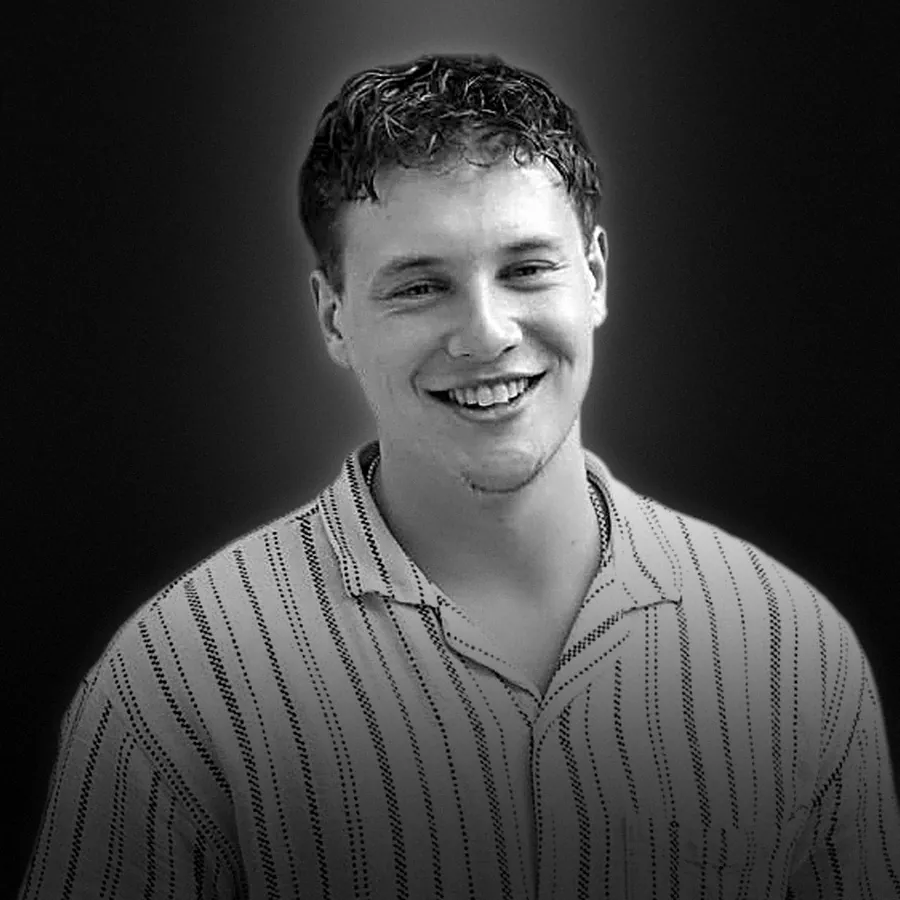
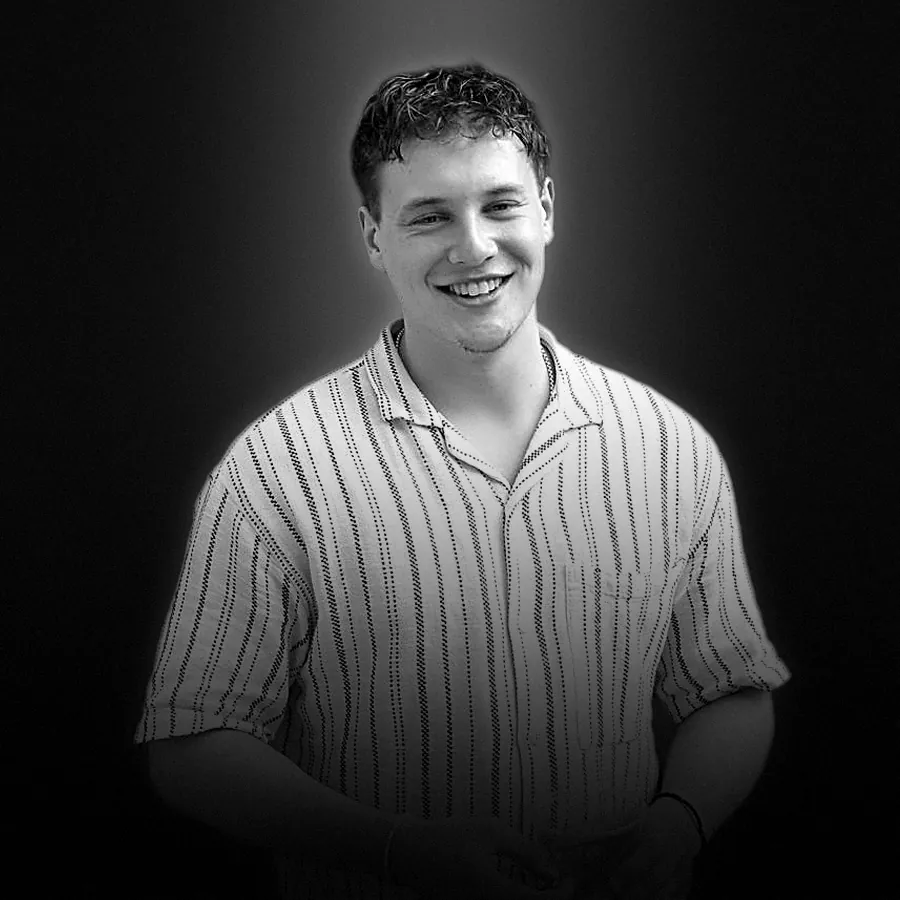
Pakete wieder als Karten, gleich hohe Produktkarten, groesseres Louis-Foto
- PackageCards: helle Karten im Stil der Produktkarten, Zahl der Ausdrucke
  als Blickfang, eine Reihe, bei wenig Platz seitlich wischbar
- Produktraster mit gleich hohen Zeilen, Preis unten an der Karte
- Ueber-uns-Banner aus dem groesseren Foto (Oberkoerper statt Nahaufnahme)

diff --git a/app/components/product/PackageCards.vue b/app/components/product/PackageCards.vue
@@ -1,0 +1,118 @@
+<script setup lang="ts">
+import type { RentalPackage } from '~~/shared/types'
+import { cheapestWithSoundboxCents, formatPrice } from '~~/shared/pricing'
+
+// Die Fotobox-Pakete als Karten in der Machart der Produktkarten: hell,
+// linksbuendig, ohne Symbole. Blickfang ist das, was die Pakete wirklich
+// unterscheidet, die Zahl der Ausdrucke. Zwei Arten:
+//   mit `to`     jede Karte ist ein Link (Pakete-Seite, Produktuebersicht)
+//   ohne `to`    jede Karte waehlt das Paket aus (Produktseite, "select")
+const { packages, selected = '', to } = defineProps<{
+  packages: RentalPackage[]
+  selected?: string
+  to?: (pkg: RentalPackage) => string
+}>()
+const emit = defineEmits<{ select: [slug: string] }>()
+// Als Text ('NuxtLink') findet <component :is> die Komponente nicht.
+const NuxtLink = resolveComponent('NuxtLink')
+</script>
+
+<template>
+  <ul class="pc">
+    <li v-for="p in packages" :key="p.slug">
+      <component
+        :is="to ? NuxtLink : 'button'"
+        :to="to ? to(p) : undefined"
+        :type="to ? undefined : 'button'"
+        :aria-pressed="to ? undefined : selected === p.slug"
+        class="pc__card" :class="{ 'is-sel': selected === p.slug }"
+        @click="to ? undefined : emit('select', p.slug)"
+      >
+        <span class="pc__top">
+          <span class="label pc__tier">{{ p.short }}</span>
+          <span v-if="p.highlight" class="label pc__tag">Beliebt</span>
+        </span>
+
+        <span class="pc__hero">
+          <template v-if="p.prints">
+            <span class="display pc__num">{{ p.prints }}</span>
+            <span class="pc__unit">Ausdrucke</span>
+          </template>
+          <template v-else>
+            <span class="display pc__num pc__num--word">Digital</span>
+            <span class="pc__unit">ohne Drucker</span>
+          </template>
+        </span>
+
+        <span class="pc__facts">
+          <span>Online-Galerie</span>
+          <span v-if="p.designIncluded">Fotodesign inklusive</span>
+          <span>Lieferung bis {{ p.freeDeliveryKm }} km</span>
+        </span>
+
+        <span class="pc__foot">
+          <span class="pc__price">{{ formatPrice(p.priceCents) }}</span>
+          <span v-if="cheapestWithSoundboxCents(p)" class="pc__alt">
+            mit Soundbox ab {{ formatPrice(cheapestWithSoundboxCents(p)!) }}
+          </span>
+          <span class="label pc__act" aria-hidden="true">
+            <template v-if="to">Wählen <UiIcon name="arrow" :size="12" /></template>
+            <template v-else>{{ selected === p.slug ? 'Gewählt' : 'Wählen' }}</template>
+          </span>
+        </span>
+      </component>
+    </li>
+  </ul>
+</template>
+
+<style scoped>
+/* Alle Pakete in einer Reihe. Reicht die Breite nicht (Handy, Spalte auf der
+   Produktseite), wird die Reihe seitlich wischbar statt umzubrechen: fuenf
+   Karten ergaeben sonst immer eine einzelne Karte in der letzten Zeile.
+   Das Polster gibt dem Anheben beim Hover Platz, overflow schneidet sonst ab. */
+.pc {
+  list-style: none; margin: calc(-1 * var(--s-3)); padding: var(--s-3);
+  display: grid; gap: var(--s-3);
+  grid-auto-flow: column; grid-auto-columns: minmax(10rem, 1fr);
+  overflow-x: auto; scroll-snap-type: x mandatory;
+  scroll-padding-inline: var(--s-3);
+  scrollbar-width: thin;
+}
+.pc li { display: flex; scroll-snap-align: start; }
+
+.pc__card {
+  flex: 1;
+  display: flex; flex-direction: column; gap: var(--s-4);
+  padding: var(--s-5) var(--s-4) var(--s-4);
+  text-align: left; color: var(--c-text);
+  background: var(--c-paper-pure);
+  border: var(--border-hair);
+  border-radius: var(--r-md);
+  transition: transform var(--d-base) var(--e-out), box-shadow var(--d-base) var(--e-out),
+              border-color var(--d-fast) var(--e-out);
+}
+.pc__card:hover { transform: translateY(-3px); box-shadow: var(--shadow-card); }
+.pc__card:focus-visible { outline: 2px solid var(--c-gold); outline-offset: 3px; }
+.pc__card.is-sel { border-color: var(--c-gold); box-shadow: inset 0 0 0 1px var(--c-gold); }
+
+.pc__top { display: flex; justify-content: space-between; align-items: baseline; gap: var(--s-2); }
+.pc__tier { color: var(--c-text); }
+.pc__tag { color: var(--c-gold); font-size: 0.625rem; }
+
+.pc__hero { display: grid; padding-bottom: var(--s-4); border-bottom: 1px solid var(--c-gold-hair); }
+.pc__num { font-size: clamp(2.6rem, 2rem + 1.6vw, 3.4rem); line-height: 1; font-variant-numeric: lining-nums; }
+.pc__num--word { font-size: clamp(2rem, 1.6rem + 1.2vw, 2.6rem); line-height: 1.3; }
+.pc__unit { font-size: var(--t-small); color: var(--c-text-muted); }
+
+.pc__facts { display: grid; gap: 0.3rem; font-size: var(--t-small); color: var(--c-text-muted); }
+
+/* Preis immer unten, auch wenn eine Karte weniger Zeilen hat. */
+.pc__foot { margin-top: auto; display: grid; gap: 0.15rem; padding-top: var(--s-2); }
+.pc__price { font-size: 1.25rem; font-weight: 600; font-variant-numeric: tabular-nums; }
+.pc__alt { font-size: 0.75rem; color: var(--c-text-muted); }
+.pc__act {
+  display: inline-flex; align-items: center; gap: 0.3rem;
+  margin-top: var(--s-3); color: var(--c-gold);
+}
+.pc__card.is-sel .pc__act { color: var(--c-text); }
+</style>

diff --git a/app/components/product/ProductCard.vue b/app/components/product/ProductCard.vue
@@ -33,7 +33,7 @@ function open() {
       <h3 class="card__name">
         <NuxtLink :to="`/produkte/${product.slug}`" class="card__link">{{ product.name }}</NuxtLink>
       </h3>
-      <p class="card__summary muted">{{ product.summary }}</p>
+      <p v-if="product.summary" class="card__summary muted">{{ product.summary }}</p>
       <!-- Kein Preis fuer etwas, das man noch nicht mieten kann. -->
       <p v-if="product.available" class="card__price">
         <span class="muted">ab</span> {{ formatPrice(product.priceCents) }}
@@ -89,12 +89,16 @@ function open() {
 /* Mit Foto: Bild leicht entsaettigt, damit klar ist, dass es noch nicht geht. */
 .card--soon .card__media :deep(.gal__img) { filter: grayscale(0.6); opacity: 0.85; }
 
-.card__body { display: grid; gap: var(--s-2); padding: var(--s-4) var(--s-5) var(--s-5); }
+.card__body {
+  flex: 1; display: flex; flex-direction: column; gap: var(--s-2);
+  padding: var(--s-4) var(--s-5) var(--s-5);
+}
 /* Lange deutsche Komposita ("Stimmungsbeleuchtung") passen sonst nicht
    in die Kartenbreite. hyphens braucht lang="de" am html-Element. */
 .card__name { font-size: var(--t-h3); font-weight: 500; hyphens: auto; overflow-wrap: break-word; }
 .card__summary { font-size: var(--t-small); }
-.card__price { color: var(--c-gold); font-weight: 600; margin-top: var(--s-1); }
+/* Preis unten an der Karte, auch wenn die Beschreibung kuerzer ist. */
+.card__price { color: var(--c-gold); font-weight: 600; margin-top: auto; padding-top: var(--s-1); }
 .card__price .muted { font-weight: 400; font-size: var(--t-small); }
 .card__unit { margin-left: 0.15rem; }
 </style>

diff --git a/app/pages/produkte/index.vue b/app/pages/produkte/index.vue
@@ -81,7 +81,7 @@ const toBooking = (p: RentalPackage) => `/produkte/fotobox?paket=${p.slug}#buche
             Alle Preise <UiIcon name="arrow" :size="14" />
           </UiButton>
         </div>
-        <PackageList :packages="fotoboxPackages" :to="toBooking" />
+        <PackageCards :packages="fotoboxPackages" :to="toBooking" />
       </div>
     </section>
   </div>
@@ -107,6 +107,9 @@ const toBooking = (p: RentalPackage) => `/produkte/fotobox?paket=${p.slug}#buche
 .grid {
   display: grid; gap: var(--s-5);
   grid-template-columns: repeat(auto-fill, minmax(240px, 1fr));
+  /* Alle Zeilen so hoch wie die hoechste: Coming-soon-Karten haben nur
+     einen Namen und waren sonst in ihrer eigenen Zeile niedriger. */
+  grid-auto-rows: 1fr;
 }
 .empty { text-align: center; padding-block: var(--s-8); }
 

diff --git a/app/pages/produkte/[slug].vue b/app/pages/produkte/[slug].vue
@@ -107,7 +107,7 @@ useSeoMeta({
           <h2 id="pakete-h" class="display pd__pakete-h">Pakete</h2>
           <NuxtLink to="/pakete" class="label pd__pakete-more">Alle Preise</NuxtLink>
         </div>
-        <PackageList :packages="fotoboxPackages" :selected="paket" @select="choose" />
+        <PackageCards :packages="fotoboxPackages" :selected="paket" @select="choose" />
       </section>
     </div>
   </div>

diff --git a/app/pages/pakete.vue b/app/pages/pakete.vue
@@ -45,7 +45,7 @@ const soundboxLines = [
           <h2 id="fotobox-h" class="display h-col">Fotobox-Pakete</h2>
           <p class="muted">Preise pro Veranstaltungstag.</p>
         </header>
-        <PackageList :packages="fotoboxPackages" :to="toBooking" />
+        <PackageCards :packages="fotoboxPackages" :to="toBooking" />
       </div>
     </section>
 

diff --git a/shared/catalog.ts b/shared/catalog.ts
@@ -133,8 +133,3 @@ export function findProduct(slug: string) {
 export function findPackage(slug: string) {
   return fotoboxPackages.find(p => p.slug === slug)
 }
-
-/** "300 Ausdrucke" oder "Nur digital" */
-export function printsLabel(pkg: RentalPackage) {
-  return pkg.prints ? `${pkg.prints} Ausdrucke` : 'Nur digital, ohne Drucker'
-}

diff --git a/scripts/banner-ueber-uns.py b/scripts/banner-ueber-uns.py
@@ -4,8 +4,10 @@ Gleiche Buehne wie der Produktbanner (scripts/buehne.py): dunkler Raum,
 Lichtkegel hinter dem Kopf, weicher Lichtschein um die Silhouette. Das
 Portraet steht rechts, links bleibt Platz fuer den Titel.
 
-Das Foto ist klein (678 px breit) und wird fast verdoppelt. Gegen den
-weichen Eindruck: leichtes Nachschaerfen und feines Korn.
+Quelle seit 14.10.2026: Louis-freigestellt.png (Oberkoerper, 631 x 902 px).
+Der Kopf ist darin nur gut 190 px breit, deshalb zeigt der Banner den
+Oberkoerper statt einer Nahaufnahme: so wird das Foto verkleinert statt
+hochgerechnet und bleibt scharf. Dazu leichtes Nachschaerfen und feines Korn.
 
     python3 scripts/banner-ueber-uns.py portrait.webp public/images/ueber-uns [lichter]
 
@@ -30,10 +32,13 @@ cut = bbox_crop(load_cutout(SRC, only_largest=True, erode=1))
 gray = cut.convert('L').filter(ImageFilter.UnsharpMask(radius=2.0, percent=80, threshold=2))
 gray = ImageEnhance.Contrast(gray).enhance(1.14)
 cut = Image.merge('RGBA', (gray, gray, gray, cut.getchannel('A')))
-FACE_X = 300 / cut.width        # Gesichtsmitte im Freisteller (Anteil der Breite)
+# Gesichtsmitte im Freisteller (Anteil der Breite), gemessen am obersten
+# Achtel: dort ist nur der Kopf.
+_head = np.asarray(cut.getchannel('A'))[: cut.height // 8] > 8
+FACE_X = np.where(_head)[1].mean() / cut.width
 
 
-def render(W, H, scale, face_at, top, spot_y, bottom_fade=None, lights=False):
+def render(W, H, scale, face_at, top, spot_y, bottom_fade=None, fade_depth=0.75, lights=False):
     figure = cut.resize((round(cut.width * scale), round(cut.height * scale)), Image.LANCZOS)
     x = round(face_at * W - FACE_X * figure.width)
     L, A = place((H, W), figure, x, top)
@@ -55,14 +60,16 @@ def render(W, H, scale, face_at, top, spot_y, bottom_fade=None, lights=False):
     if bottom_fade is not None:
         ys = np.linspace(0, 1, H, dtype=np.float32)
         t = np.clip((ys - bottom_fade) / (1 - bottom_fade), 0, 1)
-        img = img * (1 - 0.75 * t * t * (3 - 2 * t))[:, None, None]
+        img = img * (1 - fade_depth * t * t * (3 - 2 * t))[:, None, None]
     return grain(img)
 
 
-# Breit: Kopf gross, Schultern laufen unten aus dem Bild.
-wide = render(2400, round(2400 / 3.8), scale=1.75, face_at=0.76, top=30, spot_y=0.4, lights=LIGHTS)
+# Breit: Kopf bis Brust, der Rest laeuft unten aus dem Bild.
+wide = render(2400, round(2400 / 3.8), scale=1.12, face_at=0.76, top=34, spot_y=0.4, lights=LIGHTS)
 print(save(wide, OUT / 'banner.webp'))
 
-# Quadratisch fuer schmale Bildschirme: Gesicht oben, unten ins Dunkle fuer den Titel.
-square = render(900, 900, scale=1.6, face_at=0.5, top=52, spot_y=0.3, bottom_fade=0.38, lights=LIGHTS)
+# Quadratisch fuer schmale Bildschirme: Gesicht oben, unten ins Dunkle fuer den
+# Titel. Das helle Hemd liegt hinter dem Text, deshalb kraeftiger abgedunkelt.
+square = render(900, 900, scale=1.05, face_at=0.5, top=56, spot_y=0.3,
+                bottom_fade=0.34, fade_depth=0.93, lights=LIGHTS)
 print(save(square, OUT / 'banner-mobil.webp'))
